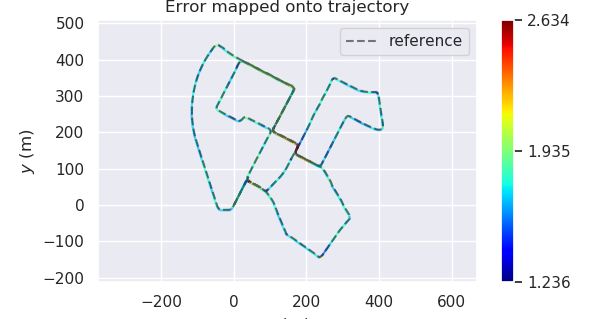
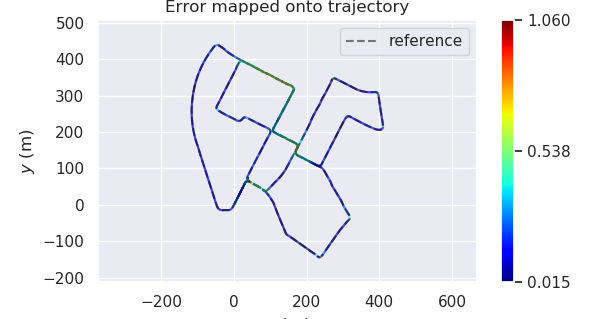
Finish Assignment 04 iteration.

diff --git a/workspace/assignments/04-imu-lidar-gnss-fusion/src/lidar_localization/src/filtering/filtering_flow.cpp b/workspace/assignments/04-imu-lidar-gnss-fusion/src/lidar_localization/src/filtering/filtering_flow.cpp
@@ -129,6 +129,13 @@ bool FilteringFlow::SaveOdometry(void) {
         
         current_gnss_data_ = gnss_data_buff_.front();
 
+        const Eigen::Vector3f &position_ref = current_gnss_data_.pose.block<3, 1>(0, 3);
+        const Eigen::Vector3f &position_lidar = trajectory.lidar_.at(i).block<3, 1>(0, 3);
+
+        if ( (position_ref - position_lidar).norm() > 3.0 ) {
+            continue;
+        }
+
         SavePose(trajectory.fused_.at(i), fused_odom_ofs);
         SavePose(trajectory.lidar_.at(i), laser_odom_ofs);
         SavePose(current_gnss_data_.pose, ref_odom_ofs);

diff --git a/workspace/assignments/04-imu-lidar-gnss-fusion/README.md b/workspace/assignments/04-imu-lidar-gnss-fusion/README.md
@@ -6,21 +6,23 @@ This is the solution of Assignment 04 of Sensor Fusion from [深蓝学院](https
 
 ---
 
-## Problem Statement
+# Problem Statement
 
 ---
 
-### 1. 基于滤波的融合定位
+## 1. 基于滤波的融合定位
 
 任选一种滤波模型和方法, 在`KITTI`数据集上, 实现基于`IMU`以及`点云地图匹配`的融合定位
 
-#### ANS
+### ANS
 
 此处选用`基于误差信息的Kalman Filtering`进行融合定位. 解决方案的架构图如下:
 
 <img src="doc/images/01-error-based-kalman-filtering--architect.png" alt="Trajectory Estimation using Scan Context" width="100%" />
 
 算法的`理论推导`以及`针对KITTI Road Test Data`的`伪代码实现`参考 [here](doc/derivations)
+
+### Data Preprocessing
 
 为了产生`未降频的IMU测量值`:
 
@@ -139,17 +141,62 @@ topics:      /kitti/camera_color_left/camera_info     4544 msgs    : sensor_msgs
 
 ```
 
+### Implementation
+
 基于`Eigen`与`Sophus`的`Error-State Kalman Fusion`实现参考[here](src/lidar_localization/src/models/kalman_filter/kalman_filter.cpp)
+
+### Demo
 
 `IMU-Lidar Error-State Kalman Fusion Odometry`与`GNSS Groud Truth`的对比如下图所示. 其中`黄色`为`GNSS Groud Truth`, `红色`为`Lidar Odometry`, `蓝色`为`IMU-Lidar Fusion Odometry`:
 
-<img src="doc/images/01-IMU-lidar-fusion.png" alt="IMU-Lidar Fusion v.s. GNSS" width="100%">
+<img src="doc/images/01-IMU-lidar-fusion-macro.png" alt="IMU-Lidar Fusion v.s. GNSS" width="100%">
 
 <img src="doc/images/01-IMU-lidar-fusion-micro.png" alt="IMU-Lidar Fusion v.s. GNSS Micro" width="100%">
 
+### Result Analysis
+
+为了获取可用于`evo评估`的轨迹输出, 可通过如下`ROS Service Call`, 比较融合前后的Odometry: 
+
+```bash
+# set up session:
+source install/setup.bash
+# save odometry:
+rosservice call /save_odometry "{}"
+# run evo evaluation:
+# a. laser:
+evo_ape kitti ground_truth.txt laser.txt -r full --plot --plot_mode xy
+# b. fused:
+evo_ape kitti ground_truth.txt fused.txt -r full --plot --plot_mode xy
+```
+
+两者的KPI比较参照下表. 
+
+在`2011_10_03_drive_0027_extract`上, 两者的估计性能相近, `IMU-Lidar Fusion`的
+
+* 估计精度(Standard Deviation)
+
+* 误差的散布度(Max - Min)
+
+略优, 在`Standard Deviation`上, 相比Lidar Frontend的直接估计, 基于IMU-Lidar Fusion的里程计有**1%**的提升.
+
+Lidar Only                 |IMU-Lidar Fusion
+:-------------------------:|:-------------------------:
+![Lidar Only, Time Series Plot](doc/images/01-evo--lidar-only-time-series-plot.png)  |  ![IMU-Lidar Fusion, Map Plot](doc/images/01-evo--imu-lidar-fusion-time-series-plot.png)
+![Lidar Only, Map Plot](doc/images/01-evo--lidar-only-map-plot.png)  |  ![IMU-Lidar Fusion, Map Plot](doc/images/01-evo--imu-lidar-fusion-map-plot.png)
+
+|  Algo. |  Lidar Only  |  IMU-Lidar   |
+|:------:|:------------:|:------------:|
+|   max  |   1.059857   |   1.013975   |
+|  mean  |   0.228051   |   0.244695   |
+| median |   0.160213   |   0.185263   |
+|   min  |   0.015406   |   0.020395   |
+|  rmse  |   0.284716   |   0.297277   |
+|   sse  |  355.463371  |  387.517623  |
+| **std**| **0.170458** | **0.168813** |		
+
 ---
 
-### 2. GNSS/IMU融合分析
+## 2. GNSS/IMU融合分析
 
 推导组合导航(GNSS + IMU)的滤波模型. 要求:
 
@@ -159,13 +206,15 @@ topics:      /kitti/camera_color_left/camera_info     4544 msgs    : sensor_msgs
 
 * 统计Kalman滤波中各状态量的收敛速度和收敛精度, 并与可观测度分析的结果汇总比较.
 
-#### ANS
+### ANS
 
-##### Measurement Model Derivation
+### Measurement Model Derivation
 
 组合导航(GNSS + IMU)的滤波模型参考 [here](doc/derivations).
 
-##### Data Pre-processing
+### Data Pre-processing
+
+#### ROS GNSS-INS-Sim
 
 为了简化算法的比较与分析, 首先重新实现`GNSS-INS-Sim ROS Wrapper Package`, 将`GNSS-INS-Sim`的输出转化为与`KITTI Road Test Data`兼容的格式. 以加减速场景的测试数据为例, 得到的ROS Bag如下. 其中`/init_pose`为起始点, `/reference_pose`为`Groud Truth Trajectory`.
 
@@ -191,11 +240,15 @@ topics:      /init_pose               1 msg     : nav_msgs/Odometry
              /sim/sensor/imu       4000 msgs    : sensor_msgs/Imu
 ```
 
+#### GNSS-INS-Sim Preprocessing Node
+
 同时增加新的数据预处理节点`eskf_preprocess_node` [here](src/lidar_localization/src/apps/eskf_preprocess_node.cpp), 完成:
 
 * `LLA`位置向`ENU`系位置的转换.
 
 * `NED`系速度向`ENU`系速度的转换.
+
+#### ESKF with Observability Analysis
 
 最后, 将`Observability Analysis`分析的逻辑集成至`IMUGNSSFilteringFlow`:
 
@@ -207,9 +260,11 @@ IMU-GNSS ESKF, Acc         |IMU-GNSS ESKF, Turning
 
 * 然后在`Kalman Filter`中, 增加`可观测性`以及`可观测度`分析的模块, 并将所得数据写至可持续性存储, 方便后续分析.
 
-##### Result & Analysis
+### Result & Analysis
 
-融合前后定位精度的对比如下. 数据显示`ESKF`可以显著提升定位精度.
+#### Localization Precision
+
+融合前后定位精度的对比如下. 数据显示在四种典型运动模式下, `ESKF`均可显著提升定位精度.
 
 | Scenario |  **Static**  | **Const. Velocity** |  **Turning** | **Acc & Deacc** |
 |:--------:|:------------:|:-------------------:|:------------:|:---------------:|
@@ -232,6 +287,9 @@ Acc & Deacc, GNSS Only     |Acc & Deacc, IMU-GNSS
 :-------------------------:|:-------------------------:
 ![Acc & Deacc, GNSS Only](doc/images/02-evo-acc--gnss-only.png)  |  ![Acc & Deacc, IMU-GNSS Fusion](doc/images/02-evo-acc--imu-gnss.png)
 
+#### Observability Analysis
+
+##### Workflow
 
 `可观测性`和`可观测度`的分析流程如下:
 
@@ -250,7 +308,17 @@ Acc & Deacc, GNSS Only     |Acc & Deacc, IMU-GNSS
 
 * 使用Python工具链, 分析系统的`可观测性`与`可观测度`
 
-四种典型运动模式的`可观测性`与`可观测度`测量数据如下表所示. 完整的测量数据请点击 [here](doc/results/observability)
+##### Observability using SVD
+
+四种典型运动模式的`可观测性`与`可观测度`测量数据如下表所示. 完整的测量数据请点击 [here](doc/results/observability). 数据显示:
+
+* 四种典型运动模式下TOM的秩均为`12`
+
+* 在不同的运动模式下, 状态量的`可观测度`不同. 
+
+    * `Static`与`Const. Velocity`模式下可观测度相近且`较低`
+
+    * `Turning`与`Acc & Deacc`模式下可观测度会提高, 且运动越剧烈, 可观测度越高(参见完整测量数据). 
 
 | Attribute |    **Static**    | **Const. Velocity** |    **Turning**   |  **Acc & Deacc** |
 |:---------:|:----------------:|:-------------------:|:----------------:|:----------------:|
@@ -285,7 +353,9 @@ Acc & Deacc, GNSS Only     |Acc & Deacc, IMU-GNSS
 |    dABy   |   4.756790e+20   |     2.708440e+20    |   8.967510e+18   |   3.227030e+20   |
 |    dABz   |   3.638080e+16   |     1.912320e+16    |   6.274590e+18   |   7.822130e+18   | 
 
-四种典型运动模式的`ESKF`方差收敛速度如下图所示. 
+##### ESKF Convergence
+
+四种典型运动模式的`ESKF收敛速度`如下图所示. 数据显示: `Turning`与`Acc & Deacc`模式下, `ESKF`收敛速度优于`Static`与`Const. Velocity`模式
 
 Static                    |Const. Velocity
 :-------------------------:|:-------------------------:
@@ -295,7 +365,9 @@ Turning                    |Acc & Deacc
 :-------------------------:|:-------------------------:
 ![Turning](doc/images/02-eskf-cov--turning.png)  |  ![Acc & Deacc](doc/images/02-eskf-cov--acc.png)
 
-`可观测性`与`可观测度`的分析结果如下:
+##### Conclusion
+
+`可观测性`与`可观测度`的分析结果总结如下:
 
 * `IMU-GUSS ESKF Fusion`的`SOM`秩为`12`(Singular Value Threshold @ `1.0e-05`)
 
